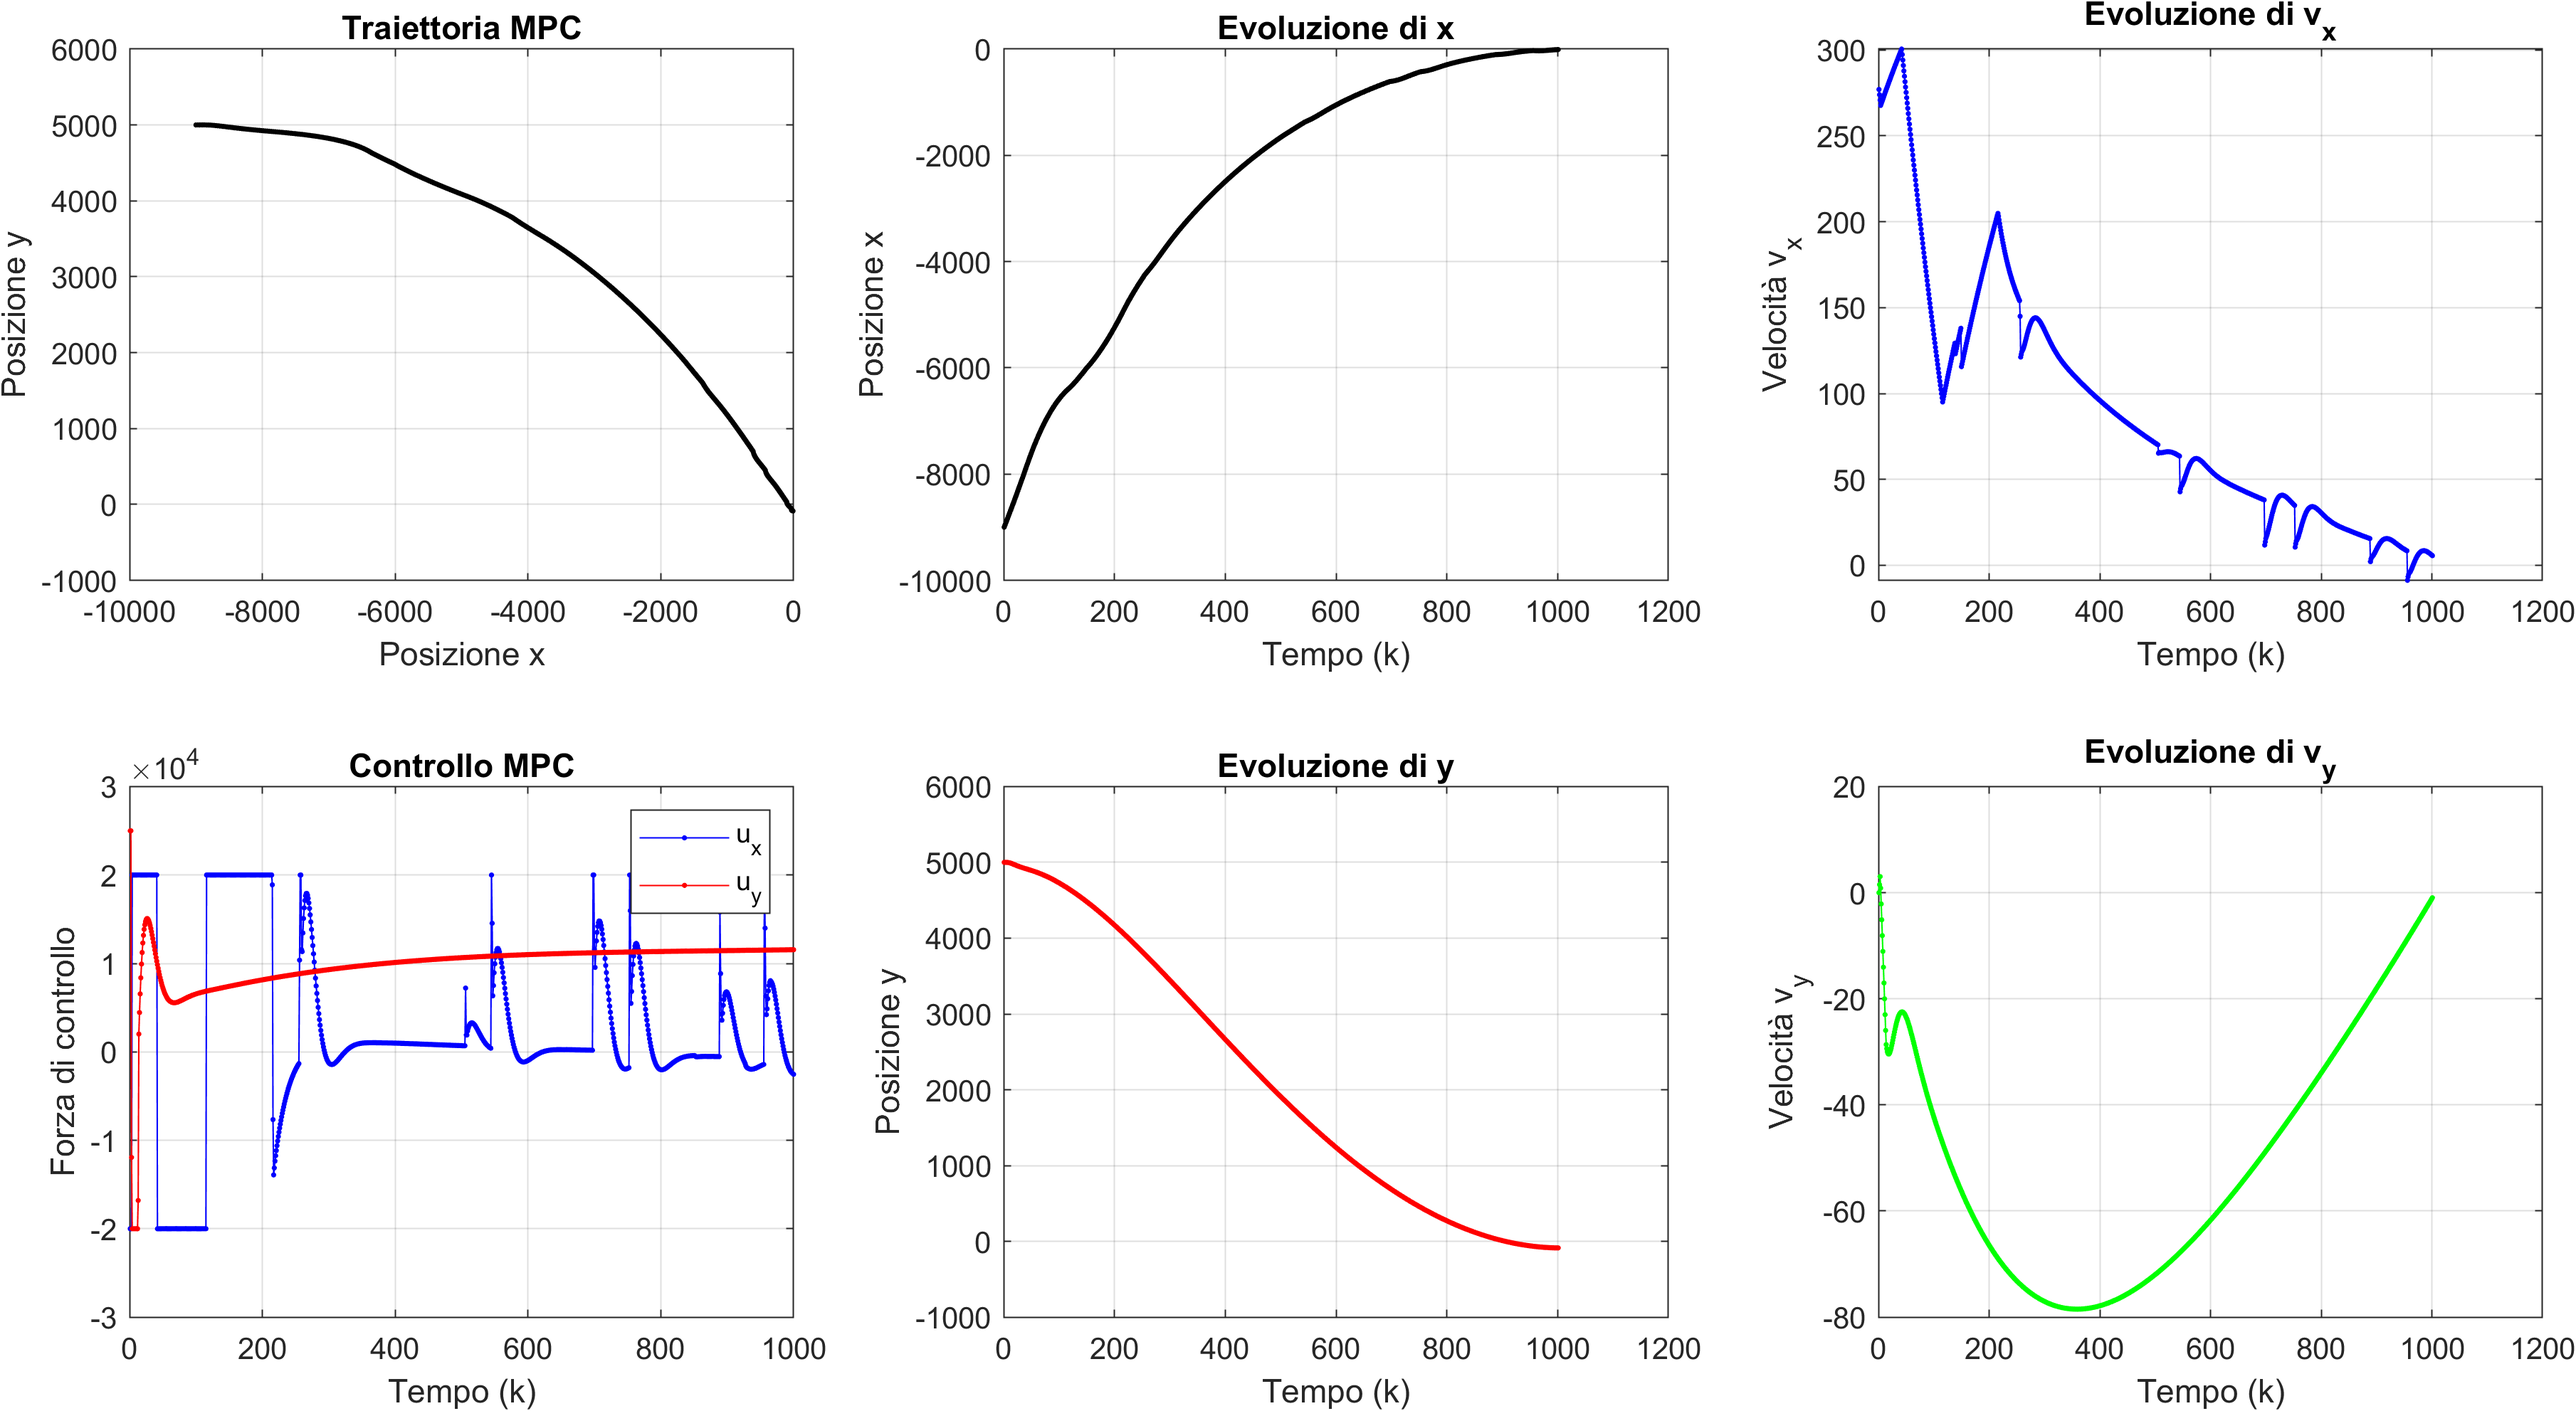
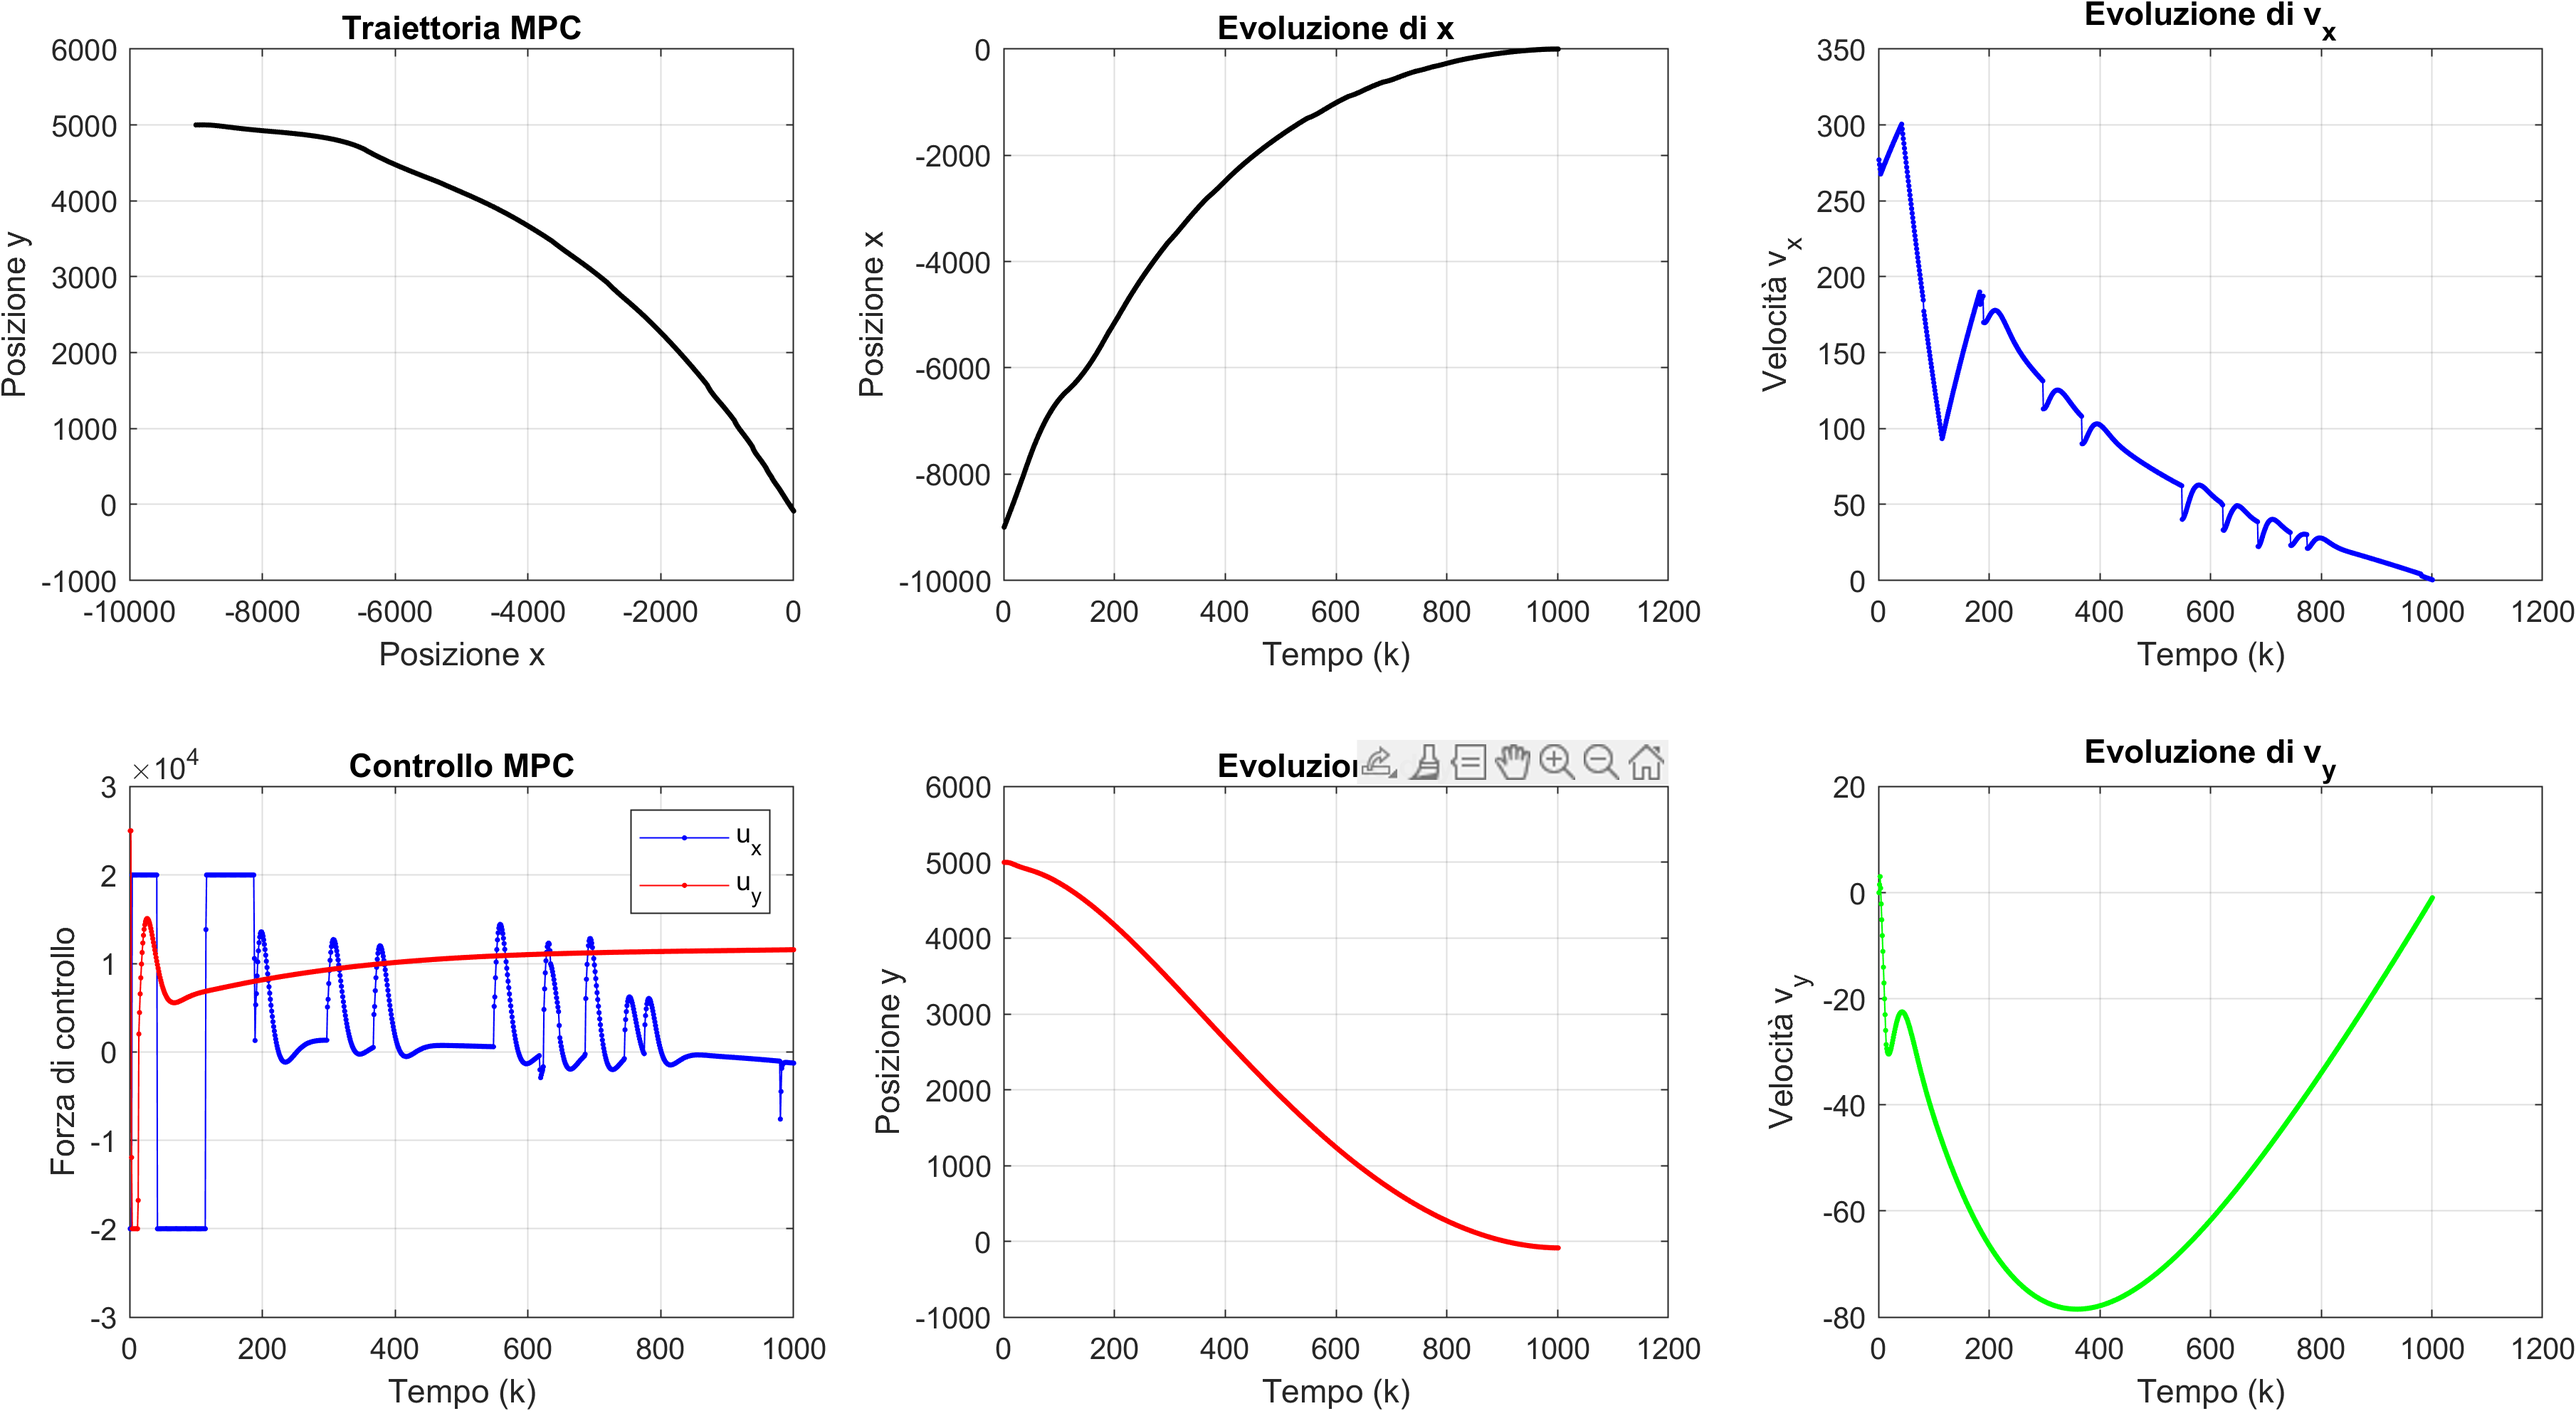
Update LQR control parameters, refine MPC output variable penalties, and adjust result visualizations

diff --git a/lqr_control.m b/lqr_control.m
@@ -38,10 +38,11 @@ disp('Parametri del sistema salvati in "data/system_parameters.mat".');
 
 %% Definizione della traiettoria ottima tramite Linear Quadratic Regulator (LQR)
 addpath('functions');  % Se la cartella è nella stessa directory dello script principale
+
 % Definizione delle matrici di costo per il controllo LQR
-Q = eye(5);       % Penalizzazione sugli stati (nessuna penalizzazione intermedia)
-R = eye(2);         % Penalizzazione sul controllo (identità 2x2)
-Qf = 1e10 * eye(5);  % Penalizzazione sullo stato finale (può essere modificata)
+Q = eye(5);       % Penalizzazione sugli stati
+R = eye(2);         % Penalizzazione sul controllo
+Qf = 1e10 * eye(5);  % Penalizzazione sullo stato finale
 
 % Esecuzione del controllo ottimo LQR a orizzonte finito
 [x, u, J] = solve_lqr(A, B, Q, R, Qf, x0, N);

diff --git a/functions/solve_lqr.m b/functions/solve_lqr.m
@@ -1,18 +1,4 @@
 function [x, u, J] = solve_lqr(A, B, Q, R, Qf, x0, N)
-% Calcola il controllo ottimo a orizzonte finito
-% per un sistema lineare stazionario a tempo discreto
-% 
-% INPUT:
-% A, B   - Matrici del sistema
-% Q, R   - Matrici del funzionale di costo
-% Qf     - Matrice del costo finale
-% x0     - Condizione iniziale
-% N      - Orizzonte di tempo
-%
-% OUTPUT:
-% x      - Traiettoria ottima degli stati
-% u      - Controllo ottimo
-% J      - Valore della funzione di costo ottimizzata
 
 n = size(A, 1); % Dimensione dello stato
 p = size(B, 2); % Dimensione dell’ingresso
@@ -42,5 +28,4 @@ end
 
 % Aggiunta del termine di costo finale
 J = J + x(:,N+1)' * Qf * x(:,N+1);
-
 end

diff --git a/setup_mpc.m b/setup_mpc.m
@@ -17,7 +17,7 @@ mpc_obj.ControlHorizon = 4;     % Numero di passi in cui il controllo viene aggi
 % Impostazione delle matrici di costo (tuning dell'MPC)
 mpc_obj.Weights.ManipulatedVariables = [0.5 0.5];  % Penalizzazione sugli input u
 mpc_obj.Weights.ManipulatedVariablesRate = [1e2 1e2];  % Penalizzazione sulla variazione di u
-mpc_obj.Weights.OutputVariables = [8e5 3e6 1.5e6 9e7 0];  % Penalizzazione sugli stati (solo x, y)
+mpc_obj.Weights.OutputVariables = [8e8 3e7 1.5e8 9e8 0];  % Penalizzazione sugli stati (solo x, y)
 
 % Vincoli sugli input (forza massima applicabile)
 mpc_obj.MV(1).Min = -2e4;  % Forza minima su x
